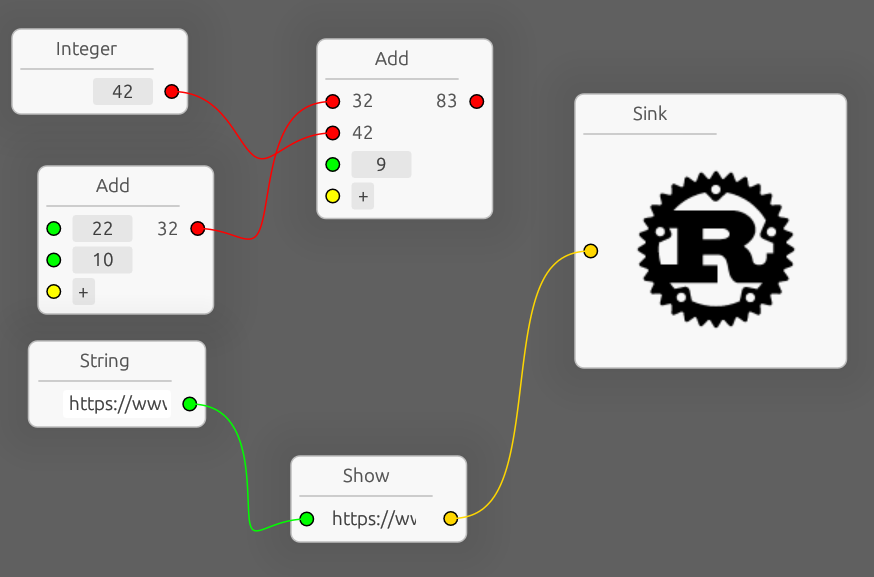
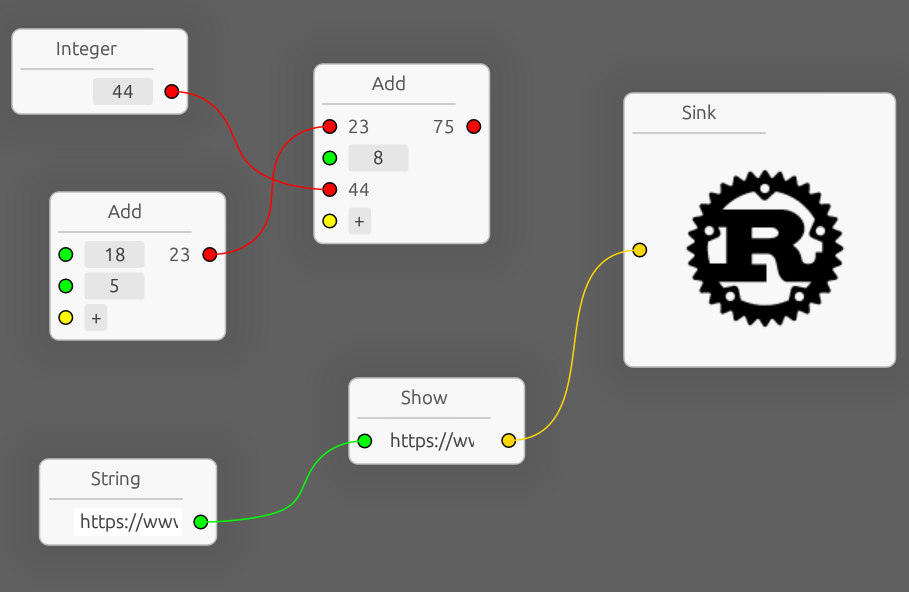
Smooth wire formula transition

Changed region(s): [[0.0309, 0.0624, 0.6178, 0.9671], [0.6178, 0.156, 0.9886, 0.6551], [0.0, 0.0312, 0.2471, 0.2184]]

diff --git a/src/ui.rs b/src/ui.rs
@@ -557,7 +557,7 @@ fn take_part_wire(ui: &Ui, id: Id) -> Option<AnyPin> {
     }
 }
 
-fn draw_wire(painter: &Painter, frame_size: f32, from: Pos2, to: Pos2, stroke: Stroke) {
+fn draw_wire(painter: &Painter, frame_size: f32, from: Pos2, to: Pos2, mut stroke: Stroke) {
     let from_norm_x = frame_size;
     let from_2 = pos2(from.x + from_norm_x, from.y);
     let to_norm_x = -from_norm_x;
@@ -575,22 +575,55 @@ fn draw_wire(painter: &Painter, frame_size: f32, from: Pos2, to: Pos2, stroke: S
             stroke,
         );
     } else if from_2.x <= to_2.x {
-        // let t = 1.0 - ((to_2.y - from_2.y).abs() - between) / between;
-        let t = (between - frame_size * 2.0) / ((to_2.y - from_2.y).abs() - frame_size * 2.0);
+        let t =
+            (between - (to_2.y - from_2.y).abs()) / (frame_size * 2.0 - (to_2.y - from_2.y).abs());
 
-        let middle_1 = to_2.lerp(pos2(from_2.x, from_2.y + frame_size), t);
-        let middle_1 = from_2 + (middle_1 - from_2).normalized() * frame_size;
+        let mut middle_1 = from_2 + (to_2 - from_2).normalized() * frame_size;
+        let mut middle_2 = to_2 + (from_2 - to_2).normalized() * frame_size;
 
-        let middle_2 = from_2.lerp(pos2(to_2.x, to_2.y + frame_size), t);
-        let middle_2 = to_2 + (middle_2 - to_2).normalized() * frame_size;
+        if from_2.y >= to_2.y + frame_size {
+            let u = (from_2.y - to_2.y - frame_size) / frame_size;
+
+            let t0_middle_1 = pos2(from_2.x + (1.0 - u) * frame_size, from_2.y - frame_size * u);
+            let t0_middle_2 = pos2(to_2.x, to_2.y + frame_size);
+
+            middle_1 = t0_middle_1.lerp(middle_1, t);
+            middle_2 = t0_middle_2.lerp(middle_2, t);
+        } else if from_2.y >= to_2.y {
+            let u = (from_2.y - to_2.y) / frame_size;
+
+            let t0_middle_1 = pos2(from_2.x + u * frame_size, from_2.y + frame_size * (1.0 - u));
+            let t0_middle_2 = pos2(to_2.x, to_2.y + frame_size);
+
+            middle_1 = t0_middle_1.lerp(middle_1, t);
+            middle_2 = t0_middle_2.lerp(middle_2, t);
+        } else if to_2.y >= from_2.y + frame_size {
+            let u = (to_2.y - from_2.y - frame_size) / frame_size;
+
+            let t0_middle_1 = pos2(from_2.x, from_2.y + frame_size);
+            let t0_middle_2 = pos2(to_2.x - (1.0 - u) * frame_size, to_2.y - frame_size * u);
+
+            middle_1 = t0_middle_1.lerp(middle_1, t);
+            middle_2 = t0_middle_2.lerp(middle_2, t);
+        } else if to_2.y >= from_2.y {
+            let u = (to_2.y - from_2.y) / frame_size;
+
+            let t0_middle_1 = pos2(from_2.x, from_2.y + frame_size);
+            let t0_middle_2 = pos2(to_2.x - u * frame_size, to_2.y + frame_size * (1.0 - u));
+
+            middle_1 = t0_middle_1.lerp(middle_1, t);
+            middle_2 = t0_middle_2.lerp(middle_2, t);
+        } else {
+            unreachable!();
+        }
 
         draw_bezier(
             painter,
             &[from, from_2, middle_1, middle_2, to_2, to],
             stroke,
         );
-    } else {
-        let middle_1 = pos2(from_2.x, from_2.y + frame_size);
+    } else if from_2.y >= to_2.y + frame_size * 2.0 {
+        let middle_1 = pos2(from_2.x, from_2.y - frame_size);
         let middle_2 = pos2(to_2.x, to_2.y + frame_size);
 
         draw_bezier(
@@ -598,6 +631,61 @@ fn draw_wire(painter: &Painter, frame_size: f32, from: Pos2, to: Pos2, stroke: S
             &[from, from_2, middle_1, middle_2, to_2, to],
             stroke,
         );
+    } else if from_2.y >= to_2.y + frame_size {
+        let t = (from_2.y - to_2.y - frame_size) / frame_size;
+
+        let middle_1 = pos2(from_2.x + (1.0 - t) * frame_size, from_2.y - frame_size * t);
+        let middle_2 = pos2(to_2.x, to_2.y + frame_size);
+
+        draw_bezier(
+            painter,
+            &[from, from_2, middle_1, middle_2, to_2, to],
+            stroke,
+        );
+    } else if from_2.y >= to_2.y {
+        let t = (from_2.y - to_2.y) / frame_size;
+
+        let middle_1 = pos2(from_2.x + t * frame_size, from_2.y + frame_size * (1.0 - t));
+        let middle_2 = pos2(to_2.x, to_2.y + frame_size);
+
+        draw_bezier(
+            painter,
+            &[from, from_2, middle_1, middle_2, to_2, to],
+            stroke,
+        );
+    } else if to_2.y >= from_2.y + frame_size * 2.0 {
+        let middle_1 = pos2(from_2.x, from_2.y + frame_size);
+        let middle_2 = pos2(to_2.x, to_2.y - frame_size);
+
+        draw_bezier(
+            painter,
+            &[from, from_2, middle_1, middle_2, to_2, to],
+            stroke,
+        );
+    } else if to_2.y >= from_2.y + frame_size {
+        let t = (to_2.y - from_2.y - frame_size) / frame_size;
+
+        let middle_1 = pos2(from_2.x, from_2.y + frame_size);
+        let middle_2 = pos2(to_2.x - (1.0 - t) * frame_size, to_2.y - frame_size * t);
+
+        draw_bezier(
+            painter,
+            &[from, from_2, middle_1, middle_2, to_2, to],
+            stroke,
+        );
+    } else if to_2.y >= from_2.y {
+        let t = (to_2.y - from_2.y) / frame_size;
+
+        let middle_1 = pos2(from_2.x, from_2.y + frame_size);
+        let middle_2 = pos2(to_2.x - t * frame_size, to_2.y + frame_size * (1.0 - t));
+
+        draw_bezier(
+            painter,
+            &[from, from_2, middle_1, middle_2, to_2, to],
+            stroke,
+        );
+    } else {
+        unreachable!();
     }
 }
 
